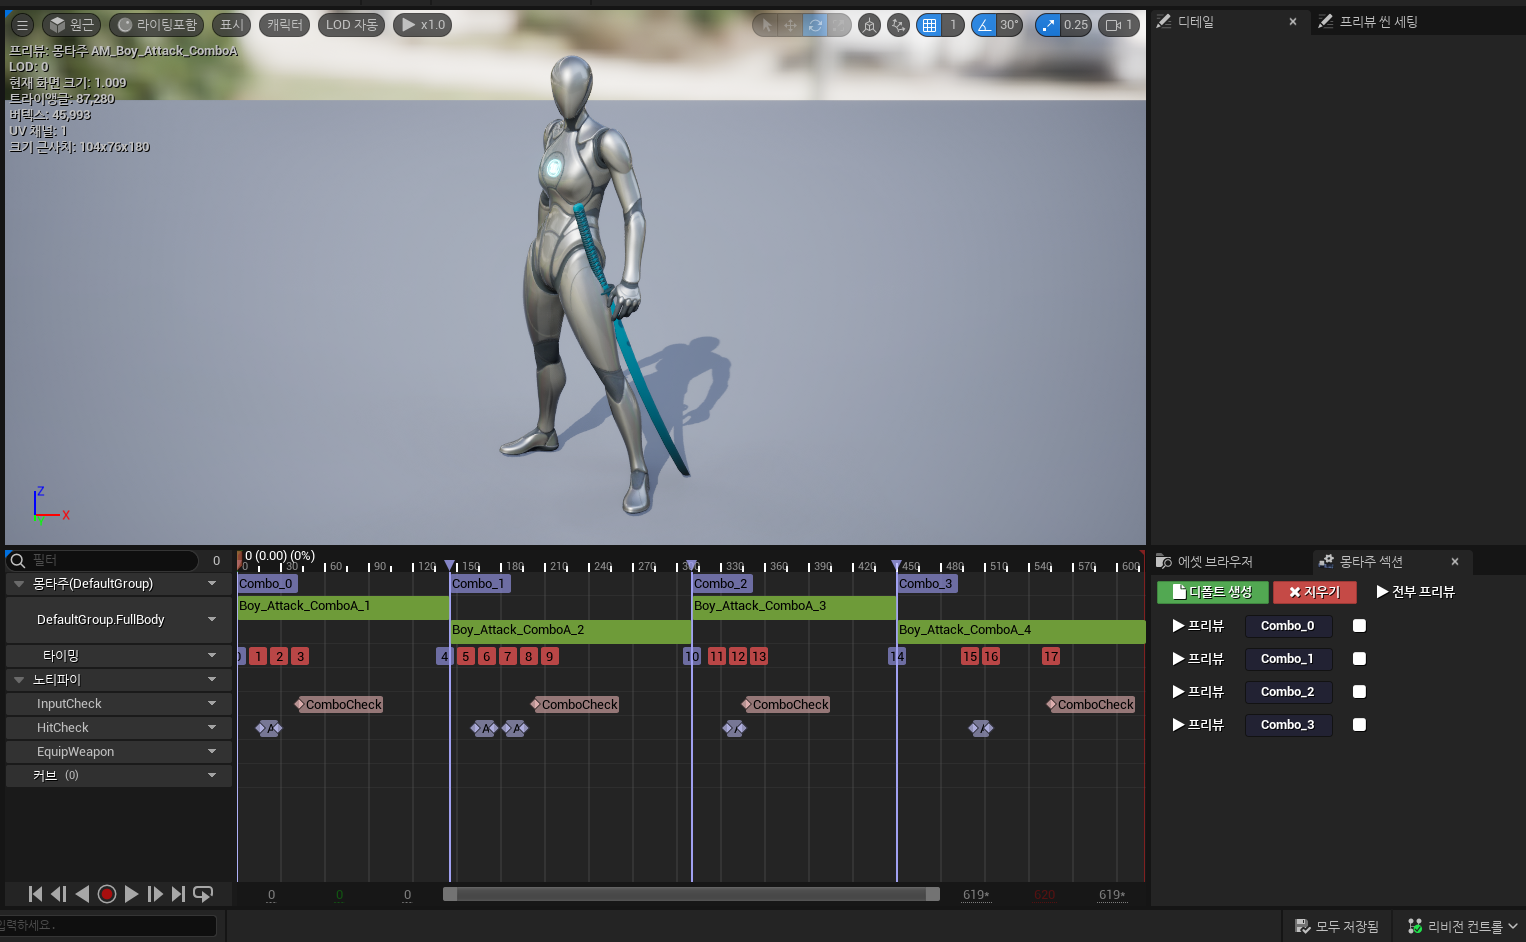
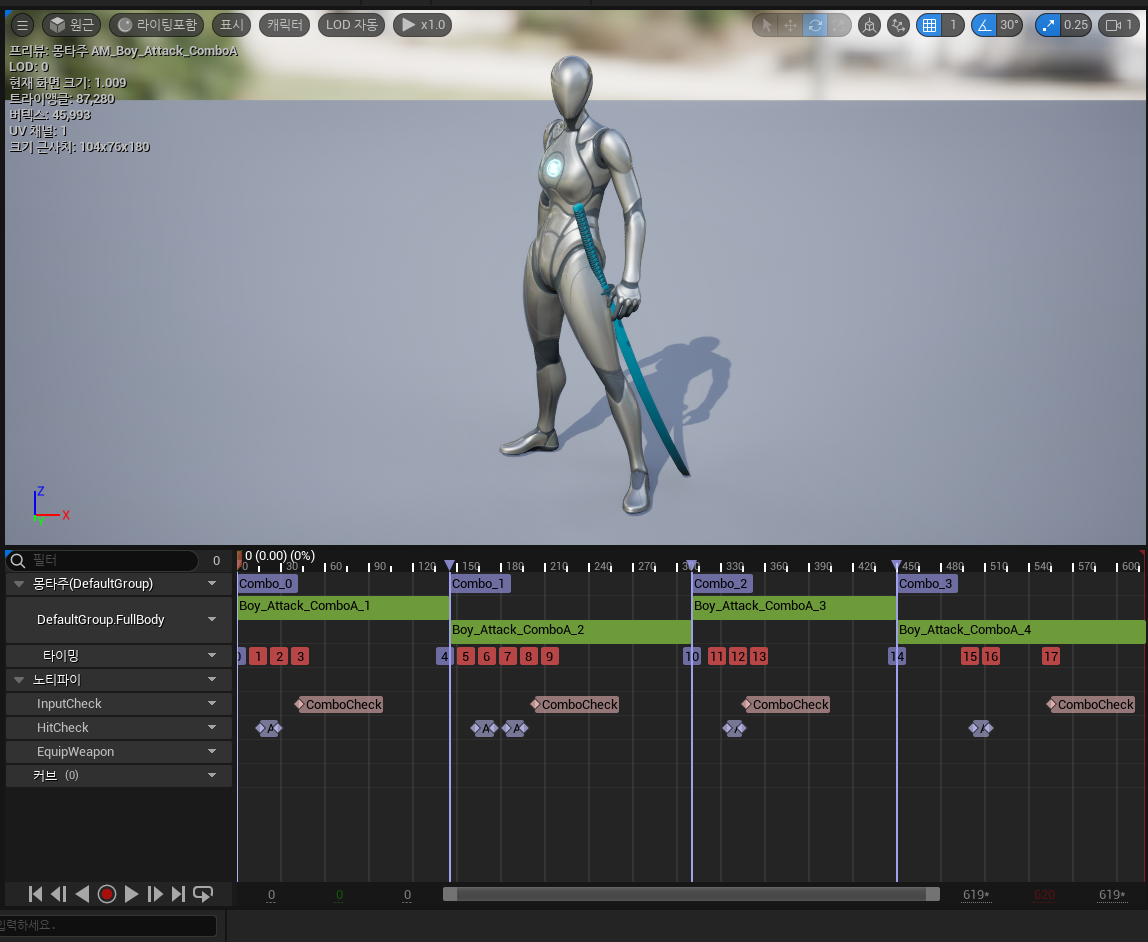
katana 메타데이터 타격 판정 추가

diff --git a/_posts/2025-08-28-katana.md b/_posts/2025-08-28-katana.md
@@ -18,6 +18,8 @@ last_modified_at: 2025-08-28
 <br>
 
 
+<iframe width="560" height="315" src="https://www.youtube.com/embed/HbXKhR7FNVI?si=M15uC45u6S3NG3tJ" title="YouTube video player" frameborder="0" allow="accelerometer; autoplay; clipboard-write; encrypted-media; gyroscope; picture-in-picture; web-share" allowfullscreen></iframe>
+
 # 카타나 (칼)
 일단 이것은 프로젝트 이쩜오 기획에 맞춰 구현한 것입니다. 같은 칼 공격이더라도 기획에 따라 구현이 많이 바뀔 것입니다.  
 
@@ -72,14 +74,165 @@ last_modified_at: 2025-08-28
 
 <iframe width="560" height="315" src="https://www.youtube.com/embed/YrJS2OUZbdM?si=0JzTq1pFMlkz5RSL&amp;start=19" title="YouTube video player" frameborder="0" allow="accelerometer; autoplay; clipboard-write; encrypted-media; gyroscope; picture-in-picture; web-share" allowfullscreen></iframe>
 
-옵션 플래그(bDeltaTrace)를 넣어, 원한다면 칼 판정 최소 간격을 설정할 수 있게 구현하였습니다. 
+옵션 플래그(bStepTrace)를 넣어, 원한다면 칼 판정 최소 간격을 설정할 수 있게 구현하였습니다. 
 
 <iframe width="560" height="315" src="https://www.youtube.com/embed/aatB9dKInZY?si=NMuWThRqHSQsA2rV" title="YouTube video player" frameborder="0" allow="accelerometer; autoplay; clipboard-write; encrypted-media; gyroscope; picture-in-picture; web-share" allowfullscreen></iframe>
 
 
-bDeltaTrace로 판정을 촘촘하게 만들었지만, 그저 칼 간격이 넓을 시 일정 간격으로 나눠 판정을 진행하는 방식이라 궤적이 둥글지 않고 직선이 되는 문제가 발생했습니다.  
+bStepTrace로 판정을 촘촘하게 만들었지만, 그저 칼 간격이 넓을 시 일정 간격으로 나눠 판정을 진행하는 방식이라 궤적이 둥글지 않고 직선이 되는 문제가 발생했습니다.  
 
-아직 해결하지 못했습니다.
+~~아직 해결하지 못했습니다.~~
+해결했습니다.
+일명 MetaTrace
+
+### MetaTrace (메타데이터 사용)
+
+StepTrace처럼 LineTrace의 시작점과 끝점을 추가하는 것은 같은데, StepTrace와 다르게 칼의 궤적 위에 있는 점으로 추가를 해야 궤적을 살리면서 판정을 촘촘하게 만들 수 있습니다.  
+
+그래서 칼의 궤적, 즉 타격 판정을 위해 칼에 붙인 Socket의 위치를 원하는 어떤 시점이든 알아내야 했습니다. (StepTrace는 틱마다 엔진이 계산해서 주는 값만 사용)  
+
+칼 위 Socket의 위치를 구하는 과정을 나열해 봤습니다.    
+
+<div>
+    <img src="/assets/images/posts_img/katana/image2.png" alt="katana" width="100%" min-width="100px" itemprop="image">
+</div>
+
+이 중에 1번, 3번을 제외한 값들은 우리 게임에서 게임 시작 전 결정되고 게임동안 바뀌지 않는 값입니다.
+
+1번은 게임 중에 계속 바뀌는 값이고, 3번은 한 애니메이션이 진행됨에 따라 포즈가 바뀌어 값이 바뀌지만, 한 애니메이션을 통째로 봤을 때는 바뀌지 않습니다.  
+
+그래서 이전 틱과 현재 틱 사이의 시간에서 소켓 위치를 구할 때,  
+
+1번은 이전 틱과 현재 틱에서의 값을 보간해서 쓰는 것이 최선이고, (참고로, 애니메이션에서 캐릭터가 도는 건 뼈가 돌아가는 것이라 그런지 World Rotation이 바뀌지 않았습니다. 그저 움직이는 만큼 Position만 조금씩 바뀝니다.)  
+
+3번은 애니메이션 단위로는 변하지 않는 값이니깐, 미리 추출해서 애님 메타데이터로 가지고 있는 것이 가능합니다. 이것이 런타임에 직접 얻는 것보다 속도 측면에서 효율적일 것입니다.  
+
+그래서 칼이 부착되는 Bone Space에서 Skeletal Component으로의 변환을 메타데이터로 추출하기로 했습니다.  
+그리고 그때의 시간을 알기 위해 메타데이터에 시간 배열도 넣기로 했습니다.  
+
+그리고 추출하기 쉽게 에디터 툴을 만들기로 했습니다.  
+
+<br>
+
+생각한 추출 방법은  
+1. 에디터 환경에서 레벨에 Skeletal Mesh Component를 스폰하고,
+2. Skeletal Mesh를 입히고,  
+3. Animation을 설정하고,  
+4. 설정한 주기씩 애니메이션을 움직이면서,  
+5. 메타데이터를 추출하는 것입니다.  
+
+(쉽게 생각한 것만큼 쉽게 구현되진 않았습니다 ㅎㅎ)  
+
+처음에 Anim Sequence와 Anim Montage 중 어떤 단위로 메타데이터를 추출하는 것이 좋을지 고민했습니다.  
+
+Anim Sequence별로 메타데이터를 두는 것이 더 분할되어 좋다고 생각했습니다.  
+
+성능 측면에서는,  
+시퀀스 단위의 경우 : 몽타주에서 현재 재생 시간을 사용해서 현재 재생중인 시퀀스를 찾는 것은 고작 몽타주 속 시퀀스 개수만큼만 for문을 돌리면 됩니다.   
+몽타주 단위의 경우 : 메타데이터 인덱스가 배로 늘어나지만, 시간 데이터가 정렬되어 있으니 이진탐색을 사용하면 최악의 경우에도 시퀀스 단위보다 계산이 횟수가 적습니다.  
+
+시퀀스 개수가 많지 않기 때문에 둘 사이에 성능 차이는 크게 없다고 판단했습니다.  
+
+그래서 Anim Sequence 단위로 메타데이터를 추출하는 것을 구현했고, 성공했습니다. 
+
+(이후 몽타주 단위로도 추출하고 추가로 깨달은 것은, 몽타주 단위로 하면 메타데이터 크기가 커지면서 에디터에서 다룰 때 렉이 걸려 불편합니다.)  
+
+<br>
+
+몽타주 단위로 메타데이터를 추출하는 것도 해 보고 싶어서 해 봤습니다.  
+
+몽타주는 애님 블루프린트의 슬롯이 없으면 재생이 안 된다고 알고 있었기에 시퀀스랑 다르게 캐릭터도 스폰하고 애님 블루프린트도 적용해 줬습니다.  
+
+그럼에도 Anim Sequence로 추출했을 때의 로직을 사용했는데, 모든 변환 값이 똑같이 나오는 문제가 발생했습니다.  
+
+<br>
+
+TickAnimation()을 호출했는데도 불구하고, Transform 계산 로직이 진행이 안 된 것 같아서  
+
+TickAnimation() 내부 함수들 외에, 애님 인스턴스나 몽타주만의 Bone Transform 값을 업데이트하는 다른 로직이 있는지 찾아봤지만 찾지 못 했습니다.  
+
+<br>
+
+이 문제의 원인과 최종 해결법은...  
+TickAnimation()에 DeltaTime을 0.f를 넣어준 것이 문제였습니다. 어쩌다 혹시몰라 다른 값을 넣어줬더니 해결됐습니다.  
+이미 애니메이션 시간은 직접 설정했으니, 내부 로직만 돌리면 된다고 생각해서 0.f를 넣었는데... 엔진 코드를 더 뜯어보지는 않았지만 dirtyFlag 등 뭔가 이유가 있는 것 같습니다.  
+
+Tick에서 관련 로직들이 다 실행이 될 것이기 때문에, 그냥 몽타주를 Pause하거나 재생 속도를 0으로 하고 Tick을 돌리면 되는 것이었습니다.  
+**TickAnimation() 함수에 DeltaTime를 넣어도, 몽타주는 Pause 혹은 재생 속도가 0이라서 문제 없기 때문에 Tick 로직들을 호출하는 용도로 사용할 수 있는 것입니다.**  
+
+Tick을 호출하면서 생긴 추가적인 문제가 있었는데, 노티파이가 호출되면서 크래시가 나는 것입니다.  
+애니메이션 사이에 메타데이터를 Copy 할 수 있는 기능을 만들어서 노티파이가 있는 경우에는, 노티파이 없는 버전으로 추출해서 노티파이 있는 버전으로 복사할 수 있게 만들었습니다.  
+
+<br>
+
+#### 에디터 툴
+
+<div>
+    <img src="/assets/images/posts_img/katana/image3.png" alt="katana" width="100%" min-width="100px" itemprop="image">
+</div>
+
+코드를 모르는 팀원도 쉽게 추출하고, 빠르게 추출해서 실험할 수 있게 구현한 추출 함수를 호출하는 에디터 툴을 만들기로 했습니다.  
+
+에디터 유틸리티 위젯을 사용해서 쉽게 만들 수 있었습니다.  
+
+시퀀스나 몽타주를 선택하고, Skeletal Mesh를 선택하고, Bone 이름을 입력하고 추출하면 됩니다.  
+추가로, 위에 적어둔 메타데이터 복사 기능도 넣어뒀습니다.  
+
+밑에는 설명 없는 시연 영상입니다.
+
+<iframe width="560" height="315" src="https://www.youtube.com/embed/K1o4k_7YJ1w?si=-2rXAd-4UJHg6UCj" title="YouTube video player" frameborder="0" allow="accelerometer; autoplay; clipboard-write; encrypted-media; gyroscope; picture-in-picture; web-share" allowfullscreen></iframe>
+
+<br>
+
+#### 최종 결과
+
+추출한 메타데이터를 사용해서 간단하게 궤적 보정을 해 보니,  
+(파란 디버그 점이 메타데이터를 사용해서 얻은 점입니다.)  
+
+<div>
+    <img src="/assets/images/posts_img/katana/image4.png" alt="katana" width="100%" min-width="100px" itemprop="image">
+</div>
+
+일반적인 공격 속도에서는 아무런 문제가 없는데,  
+
+<div>
+    <img src="/assets/images/posts_img/katana/image5.png" alt="katana" width="100%" min-width="100px" itemprop="image">
+</div>
+
+빠른 공격에서는 첫 부분이 궤적이 뭔가 이상해 졌습니다.  
+
+<div>
+    <img src="/assets/images/posts_img/katana/image6.png" alt="katana" width="100%" min-width="100px" itemprop="image">
+</div>
+
+더 편하게 문제를 찾기 위해서 Tick 때 계산되는 소켓 위치들도 찍어보니, 메타데이터 문제가 아님을 쉽게 알 수 있었습니다.  
+
+**이건 Blend 때문이었습니다.** 실제 게임에서는 애니메이션이 Blend 되면서 칼의 궤적이 변하는 것이었습니다.  
+
+<div>
+    <img src="/assets/images/posts_img/katana/image7.png" alt="katana" width="100%" min-width="100px" itemprop="image">
+</div>
+
+블렌드를 아예 없애거나, 
+혹은 이건 부자연스러울 수 있으니 블렌드 시간을 좀 줄이거나 Exponential Out과 같이 초반에 빠르게 Blend하는 Curve를 사용하는 것으로 해결이 가능했습니다.  
+
+#### 최최종 결과
+
+<div>
+    <img src="/assets/images/posts_img/katana/image8.png" alt="katana" width="100%" min-width="100px" itemprop="image">
+</div>
+
+일반 속도  
+
+<div>
+    <img src="/assets/images/posts_img/katana/image9.png" alt="katana" width="100%" min-width="100px" itemprop="image">
+</div>
+
+재생 속도 2배  
+
+죄종적으로, Tick 사이에 칼이 얼마나 이동하든지 상관없이 설정한 값보다 많이 이동하면 그 사이에 칼의 궤적 위의 점을 추가해서  
+
+궤적을 유지하면서 판정을 촘촘하게 할 수 있게 됐습니다.  
 
 <br>
 
